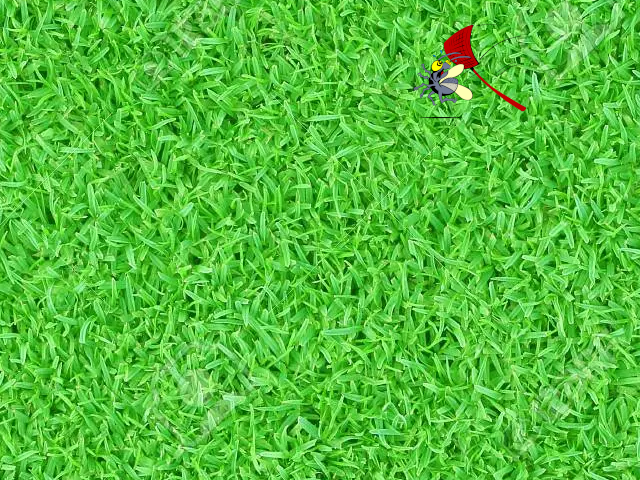
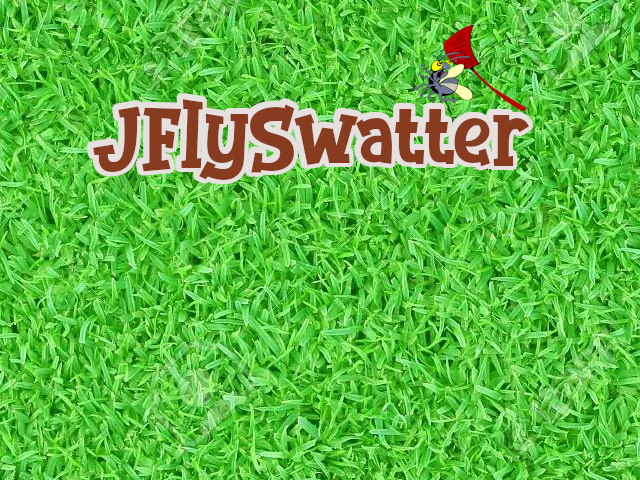
perfezionamento scritta titolo

Changed region(s): [[0.125, 0.1875, 0.8438, 0.4062]]

diff --git a/src/view/MenuPanel.java b/src/view/MenuPanel.java
@@ -17,7 +17,6 @@ public class MenuPanel extends JPanel {
     private boolean musicEnable;
     private boolean effectEnable;
     private Image imgMenu;
-    private JLabel title;
 
 
 
@@ -29,11 +28,6 @@ public class MenuPanel extends JPanel {
         this.setBounds(0,0, Constants.BOARD_WIDTH, Constants.BOARD_HEIGHT);
         this.setLayout(null);
         this.imgMenu = (Utilities.readImage(Constants.MENU_GRASS_PATH)).getImage();
-        this.title = new JLabel("JFlySwatter");
-        this.title.setBounds(120, 93, 400, 70);
-        this.title.setFont(new Font ("The Bomb", Font.BOLD, 40) );
-        this.title.setForeground(celeste);
-        this.add(this.title);
         this.musicEnable = true;
         this.effectEnable = true;
         this.drawMenu();
